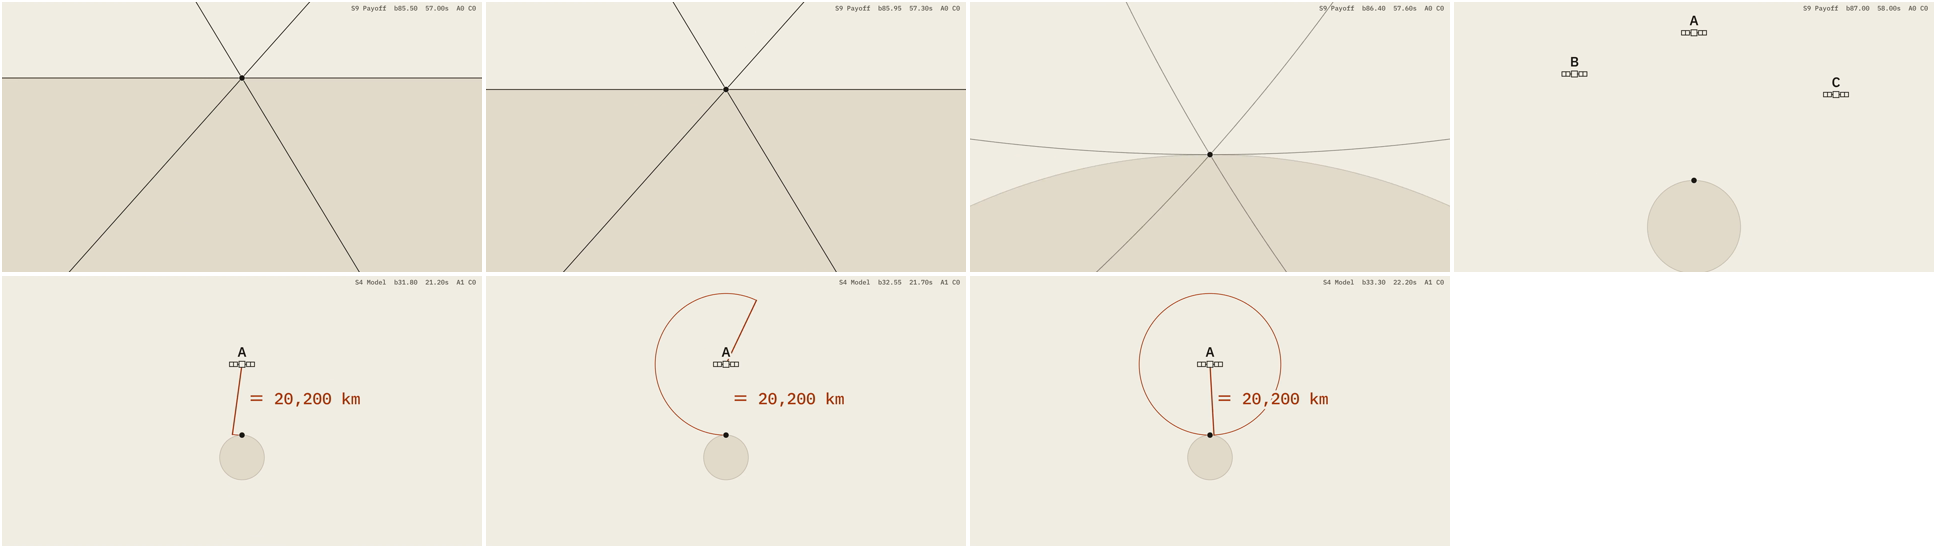
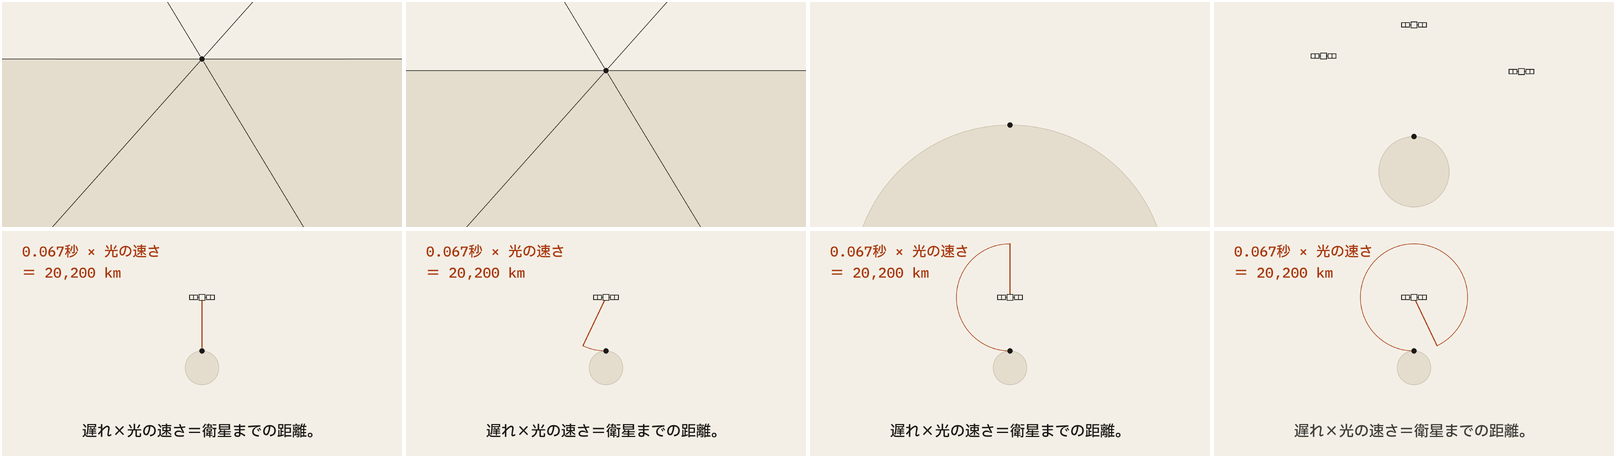
Add README (tested items only) and refreshed motion sheets
Claude-Session: https://claude.ai/code/session_01XNkUzsaBrHsadtPe9T5nwU

diff --git a/gps-explainer/README.md b/gps-explainer/README.md
@@ -1,0 +1,68 @@
+# 青い点は、見られていない — GPSのしくみ
+
+An 83-second explainer film (Japanese, captions only) that leaves a map-app user with one new understanding:
+
+> スマホは衛星に何も送らない。届いた時刻の「遅れ」を距離に変え、円が交わる一点を自分で計算している。
+> （時計のずれも一緒に解くので、立体では衛星が4つ要る）
+
+## Deliverables
+
+| File | What it is |
+|---|---|
+| `out/master_16x9.mp4` | 16:9 master, 1920×1080, 60 fps, H.264 crf 16 yuv420p, AAC 48 kHz |
+| `out/cut_9x16.mp4` | 9:16 recomposition, 1080×1920 |
+| `out/cut_1x1.mp4` | 1:1 recomposition, 1080×1080 |
+| `out/master_16x9_reduced_motion.mp4` | Reduced-motion cut: same ideas, same timing; zooms become cuts, moves become fades, no expanding rings |
+| `captions.srt` (also `out/captions.srt`) | Captions, generated from the timeline. Captions are also burned into every video |
+| `contact.png` | One frame per story beat, taken from the rendered master |
+| `directions/directions.html` | Four visual directions side by side with the decision log (A chosen) |
+| `SCENES.md` | Scene-by-scene spec: teaches / frame / motion / words / sound / check |
+| `DECISIONS.md` | Every call made where the brief was open |
+| `SOURCES.md` | Source for every number and claim on screen |
+
+The mp4 files are build outputs and are not committed (see `.gitignore`); `./build.sh` recreates them.
+
+## How it is built
+
+- `src/timeline.js` holds the one `TIMELINE` object: tempo, true-scale geometry, camera track, named moves, wavefronts, sound cues, captions, on-screen labels and scenes. Everything else reads it.
+- `src/render.js` paints a canvas. `window.seek(t)` draws the frame at time `t` (seconds), and every frame is a pure function of `t` plus the URL parameters `fmt` (16x9 | 9x16 | 1x1), `mode` (normal | reduced) and `dir` (A–D, directions only). There are no clocks and no `Math.random`.
+- `src/audio.js` renders the score offline with Web Audio (`OfflineAudioContext`). It is tempo-locked at 72 BPM, its noise is seeded, and a three-note motif returns on the key ideas. `tools/audio.mjs` loudness-normalises it (two-pass loudnorm).
+- `tools/render.mjs` runs headless Chrome (Playwright, using the system Chromium). It steps `t = n / 60` and pipes PNG frames to ffmpeg (libx264, crf 16, yuv420p, bt709). Parallel pages render contiguous chunks, which are concatenated without re-encoding.
+- `brand/tokens.json` is the single source of colour, type, spacing, easing and strokes. The typefaces are IBM Plex Sans JP and IBM Plex Mono (OFL), subset into `fonts/` by `tools/subset.py`.
+
+```bash
+npm ci                    # playwright-core + font packages
+pip3 install fonttools numpy librosa matplotlib
+./build.sh                # fonts → checks → audio → 4 renders → mux → captions → contact sheet → verification
+./build.sh video          # renders + mux + captions + contact sheet only
+node tools/stills.mjs --fmt 9x16 --beats 30,77 --out review/stills   # stills at any beat
+```
+
+`build.sh` expects Chromium at `/opt/pw-browsers/...`. Set `CHROME_PATH` to use another Chrome.
+
+## What was tested
+
+Every item below was run in this environment. The results are in the last build log (`out/build.log`) and in `review/`.
+
+- **Determinism** (`tools/determinism.mjs`): four frames per format, rendered in two separate browser sessions with the second session in reverse order. Each pair's PNG bytes are compared.
+- **Contrast** (`tools/contrast.py`): every declared text colour pair is ≥ 4.5:1 (lowest 4.76:1).
+- **Timing** (`tools/check_timing.mjs`):
+  - Every caption is ≤ 4.0 characters per second, counted after its fade-in.
+  - No caption is on screen during a camera move, and no two captions overlap.
+  - Every sound cue sits on the half-beat grid, except wavefront arrivals, which follow the geometry.
+- **Line count** (`tools/linecheck.mjs`): every quarter beat in all three formats has at most 2 caption lines and at most 2 label lines.
+- **SRT** (`tools/srt.mjs`): every caption is ≤ 2 lines of ≤ 13 characters.
+- **Flashes** (`tools/flash.py`): no more than 3 flashes in any 1-second window, on the whole frame and on each cell of a 4×4 grid, for every output.
+- **Audio** (`tools/audio_check.py`):
+  - Integrated loudness is within -16 ± 1 LUFS and true peak is ≤ -1.5 dBTP, for every output.
+  - Every timeline cue has an audible onset within 25 ms (slow-attack cues exempt).
+  - `review/audio_check.png` shows the spectrogram with the cue markers.
+- **Muted viewing**: stills at every key beat in every format and mode (`review/storyboard_*.png`), plus frame sequences across every camera move (`review/motion_*.png`).
+- **Legibility at 390 px**: every key frame of every format scaled to exactly 390 px wide (`review/w390_*.png`).
+- **Reviews**: a design review (Meaghan Choi's three questions, run by a subagent) and an accessibility review. Their findings and the changes made are in `DECISIONS.md`. Each fix has a before/after pair in `review/fixes/`.
+
+## What was not done
+
+- No voiceover. No licensed Japanese voice was available offline, so the narration is carried by captions. As a result, "duck the bed under voice" has nothing to duck.
+- `./brand`, `./refs` and `./screens` did not exist. `brand/tokens.json` was created as the brand source; there are no real UI screenshots. The map-app element is drawn, and its meaning is sourced to Google Maps Help.
+- The 9:16, 1:1 and reduced-motion cuts were checked from stills, the 390 px sheets and the automated checks. Only the 16:9 master was also checked across its camera moves frame by frame.
